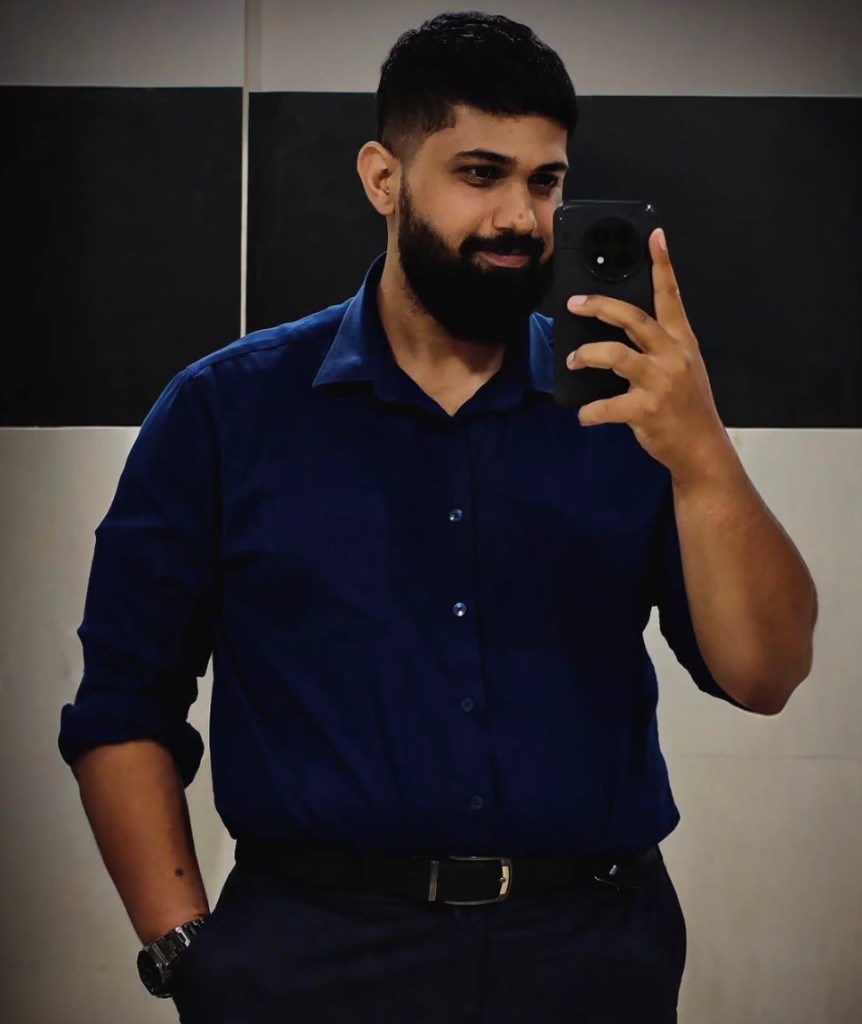
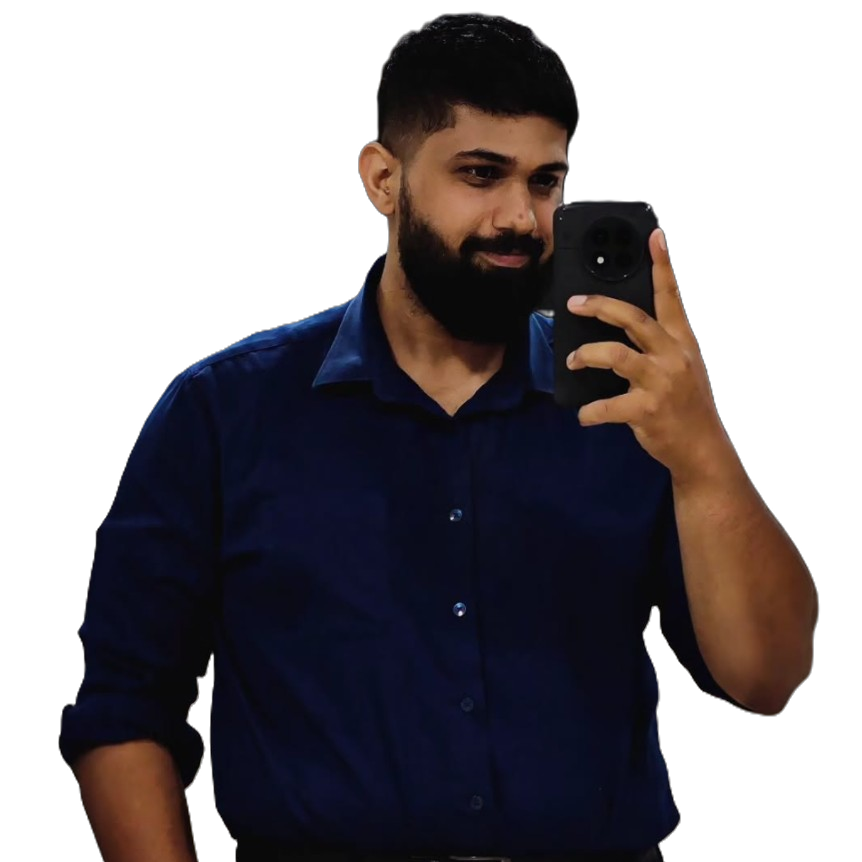
Update profile photos and flank hero decor beside the portrait.
Reposition topology labels, VT ring, and badges along the portrait edges so they stay visible instead of hiding behind the image.

diff --git a/styles.css b/styles.css
@@ -554,24 +554,44 @@ body.is-loaded .scroll-hint {
   overflow: visible;
 }
 
-.hero-visual-inner {
+.hero-portrait-cluster {
   position: relative;
-  width: min(100%, clamp(360px, 44vw, 560px));
-  aspect-ratio: 1;
+  display: flex;
+  align-items: center;
+  justify-content: center;
+  width: min(100%, clamp(360px, 52vw, 620px));
+  min-height: clamp(320px, 42vw, 480px);
+  padding-inline: clamp(52px, 9vw, 96px);
+}
+
+.hero-visual-inner {
   transition: transform 0.5s var(--ease-out);
   will-change: transform;
 }
 
-.hero-visual-inner--bg {
+.hero-topology {
   position: absolute;
-  top: 50%;
-  left: 50%;
-  translate: -50% -50%;
-  margin: 0;
-  width: min(115%, clamp(380px, 48vw, 580px));
-  opacity: 0.72;
+  inset: 0;
+  width: 100%;
+  height: 100%;
   pointer-events: none;
-  z-index: 0;
+  z-index: 1;
+}
+
+.hero-decor {
+  position: absolute;
+  top: 0;
+  bottom: 0;
+  width: clamp(52px, 9vw, 96px);
+  pointer-events: none;
+  z-index: 3;
+}
+
+.hero-decor--left {
+  left: 0;
+  display: flex;
+  align-items: center;
+  justify-content: flex-end;
 }
 
 .hero-portrait {
@@ -579,6 +599,7 @@ body.is-loaded .scroll-hint {
   z-index: 2;
   width: min(100%, clamp(280px, 36vw, 440px));
   margin: 0;
+  flex-shrink: 0;
 }
 
 .hero-portrait-frame {
@@ -598,38 +619,32 @@ body.is-loaded .scroll-hint {
 }
 
 .hero-visual .floating-badge {
-  z-index: 2;
+  z-index: 4;
 }
 
 .hero-visual .floating-badge--1 {
-  top: 4%;
-  right: clamp(-8px, -1vw, 12px);
+  top: 6%;
+  right: clamp(0px, 1vw, 8px);
 }
 
 .hero-visual .floating-badge--2 {
-  bottom: 6%;
-  left: clamp(-8px, -1vw, 12px);
+  bottom: 8%;
+  left: clamp(0px, 1vw, 8px);
 }
 
-.hero-topology {
-  position: absolute;
-  inset: 0;
+.hero-decor--left .hero-signature {
+  position: relative;
   width: 100%;
-  height: 100%;
-}
-
-.hero-signature {
-  position: absolute;
-  inset: 0;
-  display: grid;
-  place-items: center;
-  pointer-events: none;
+  height: clamp(120px, 22vw, 168px);
 }
 
 .hero-signature-ring {
   position: absolute;
-  width: 42%;
-  height: 42%;
+  right: -28%;
+  top: 50%;
+  translate: 0 -50%;
+  width: clamp(88px, 14vw, 120px);
+  height: clamp(88px, 14vw, 120px);
   border-radius: 50%;
   border: 1px solid rgba(94, 234, 212, 0.25);
   animation: ringPulse 4s var(--ease-in-out) infinite;
@@ -654,11 +669,14 @@ body.is-loaded .scroll-hint {
 }
 
 .hero-signature-core {
-  position: relative;
+  position: absolute;
+  right: -6px;
+  top: 50%;
+  translate: 0 -50%;
   z-index: 1;
-  width: 112px;
-  height: 112px;
-  border-radius: 28px;
+  width: clamp(64px, 10vw, 88px);
+  height: clamp(64px, 10vw, 88px);
+  border-radius: 22px;
   display: grid;
   place-content: center;
   text-align: center;
@@ -1173,13 +1191,18 @@ body.is-loaded .scroll-hint {
     max-width: none;
   }
 
+  .hero-portrait-cluster {
+    width: min(100%, clamp(300px, 88vw, 440px));
+    padding-inline: clamp(40px, 10vw, 64px);
+  }
+
   .hero-portrait {
     width: min(100%, clamp(260px, 72vw, 380px));
     margin-inline: auto;
   }
 
-  .hero-visual-inner--bg {
-    width: min(100%, clamp(320px, 78vw, 440px));
+  .hero-decor--left .hero-signature {
+    height: clamp(100px, 28vw, 140px);
   }
 
   .contact-copy {

diff --git a/main.js b/main.js
@@ -18,7 +18,9 @@ const header = document.querySelector(".header");
 const navToggle = document.querySelector(".nav-toggle");
 const navLinks = document.querySelectorAll(".nav-links a");
 const trackedSections = document.querySelectorAll("main section[id]");
-const heroInner = document.querySelector(".hero-visual-inner");
+const heroInner = document.querySelector(".hero-decor--left");
+const portraitCluster = document.querySelector(".hero-portrait-cluster");
+const heroPortrait = document.querySelector(".hero-portrait");
 const preloader = document.getElementById("preloader");
 const preloaderBar = document.getElementById("preloader-bar");
 const preloaderLabel = document.getElementById("preloader-label");
@@ -288,54 +290,73 @@ function initBackgroundMesh() {
 }
 
 function initTopology() {
-  if (!topologyCanvas || !motionEnabled) return;
+  if (!topologyCanvas || !motionEnabled || !portraitCluster || !heroPortrait) return;
 
   const ctx = topologyCanvas.getContext("2d");
-  const parent = topologyCanvas.parentElement;
-  let size = 0;
   let time = 0;
 
+  const leftNodes = TOPOLOGY_NODES.filter((_, index) => index % 2 === 0);
+  const rightNodes = TOPOLOGY_NODES.filter((_, index) => index % 2 === 1);
+
   function resize() {
-    size = Math.min(parent.clientWidth, parent.clientHeight, 400);
-    topologyCanvas.width = size;
-    topologyCanvas.height = size;
+    const width = portraitCluster.clientWidth;
+    const height = portraitCluster.clientHeight;
+    topologyCanvas.width = width;
+    topologyCanvas.height = height;
   }
 
-  function draw() {
-    time += 0.01;
-    ctx.clearRect(0, 0, size, size);
+  function getSidePoints(side) {
+    const clusterRect = portraitCluster.getBoundingClientRect();
+    const portraitRect = heroPortrait.getBoundingClientRect();
+    const nodes = side === "left" ? leftNodes : rightNodes;
+    const insetY = portraitRect.height * 0.12;
+    const usableHeight = portraitRect.height - insetY * 2;
 
-    const cx = size / 2 + meshPointerX * 8;
-    const cy = size / 2 + meshPointerY * 6;
-    const orbit = size * 0.36;
-    const points = TOPOLOGY_NODES.map((node, i) => {
-      const a = node.angle + time * (0.28 + i * 0.035);
+    return nodes.map((node, index) => {
+      const t = (index + 1) / (nodes.length + 1);
+      const drift = Math.sin(time * 1.4 + index * 0.9) * 8;
+      const y =
+        portraitRect.top -
+        clusterRect.top +
+        insetY +
+        usableHeight * t +
+        drift;
+      const x =
+        side === "left"
+          ? portraitRect.left - clusterRect.left - 16 + Math.cos(time + index) * 5
+          : portraitRect.right - clusterRect.left + 16 + Math.cos(time + index + 1) * 5;
+
       return {
-        x: cx + Math.cos(a) * orbit,
-        y: cy + Math.sin(a) * orbit,
+        x,
+        y,
         label: node.label,
         color: node.color
       };
     });
+  }
+
+  function draw() {
+    time += 0.01;
+    const width = topologyCanvas.width;
+    const height = topologyCanvas.height;
+    ctx.clearRect(0, 0, width, height);
+
+    const leftPoints = getSidePoints("left");
+    const rightPoints = getSidePoints("right");
+    const points = [...leftPoints, ...rightPoints];
 
     ctx.lineWidth = 1;
     points.forEach((point, i) => {
       for (let j = i + 1; j < points.length; j += 1) {
         const other = points[j];
         const dist = Math.hypot(point.x - other.x, point.y - other.y);
-        const alpha = Math.max(0, 0.2 - dist / (size * 1.4));
+        const alpha = Math.max(0, 0.22 - dist / (width * 0.95));
         ctx.strokeStyle = `rgba(94, 234, 212, ${alpha})`;
         ctx.beginPath();
         ctx.moveTo(point.x, point.y);
         ctx.lineTo(other.x, other.y);
         ctx.stroke();
       }
-
-      ctx.strokeStyle = "rgba(94, 234, 212, 0.16)";
-      ctx.beginPath();
-      ctx.moveTo(cx, cy);
-      ctx.lineTo(point.x, point.y);
-      ctx.stroke();
     });
 
     points.forEach((point) => {
@@ -344,10 +365,11 @@ function initTopology() {
       ctx.arc(point.x, point.y, 5, 0, Math.PI * 2);
       ctx.fill();
 
-      ctx.fillStyle = "rgba(244, 244, 248, 0.62)";
+      ctx.fillStyle = "rgba(244, 244, 248, 0.72)";
       ctx.font = "600 10px JetBrains Mono, monospace";
-      ctx.textAlign = "center";
-      ctx.fillText(point.label, point.x, point.y - 12);
+      ctx.textAlign = point.x < width / 2 ? "right" : "left";
+      const labelX = point.x < width / 2 ? point.x - 10 : point.x + 10;
+      ctx.fillText(point.label, labelX, point.y + 4);
     });
 
     requestAnimationFrame(draw);

diff --git a/index.html b/index.html
@@ -99,30 +99,32 @@
       </div>
 
       <div class="hero-visual" id="hero-visual">
-        <div class="hero-visual-inner hero-visual-inner--bg" aria-hidden="true">
-          <canvas id="hero-topology" class="hero-topology"></canvas>
-          <div class="hero-signature">
-            <div class="hero-signature-ring"></div>
-            <div class="hero-signature-core">
-              <span>VT</span>
-              <small>Backend · Agentic</small>
+        <div class="hero-portrait-cluster">
+          <canvas id="hero-topology" class="hero-topology" aria-hidden="true"></canvas>
+          <div class="hero-decor hero-decor--left hero-visual-inner" aria-hidden="true">
+            <div class="hero-signature">
+              <div class="hero-signature-ring"></div>
+              <div class="hero-signature-core">
+                <span>VT</span>
+                <small>Backend · Agentic</small>
+              </div>
             </div>
           </div>
+          <figure class="hero-portrait parallax-tilt" data-tilt-max="3">
+            <div class="hero-portrait-frame parallax-tilt-inner">
+              <img
+                src="/assets/photos/hero.png"
+                alt="Vijay Prakash Tiwari"
+                width="912"
+                height="912"
+                decoding="async"
+                fetchpriority="high"
+              />
+            </div>
+          </figure>
+          <div class="floating-badge floating-badge--1">LangGraph · MCP · RAG</div>
+          <div class="floating-badge floating-badge--2">Meridian · local-first</div>
         </div>
-        <figure class="hero-portrait parallax-tilt" data-tilt-max="3">
-          <div class="hero-portrait-frame parallax-tilt-inner">
-            <img
-              src="/assets/photos/hero.png"
-              alt="Vijay Prakash Tiwari"
-              width="912"
-              height="1024"
-              decoding="async"
-              fetchpriority="high"
-            />
-          </div>
-        </figure>
-        <div class="floating-badge floating-badge--1">LangGraph · MCP · RAG</div>
-        <div class="floating-badge floating-badge--2">Meridian · local-first</div>
       </div>
 
       <a class="scroll-hint" href="#projects" aria-label="Explore work">
@@ -220,7 +222,7 @@
                 src="/assets/photos/about.png"
                 alt="Vijay Prakash Tiwari"
                 width="862"
-                height="1024"
+                height="862"
                 loading="lazy"
                 decoding="async"
               />
@@ -328,8 +330,8 @@
             <img
               src="/assets/photos/contact.png"
               alt="Vijay Prakash Tiwari at work"
-              width="1024"
-              height="1024"
+              width="650"
+              height="650"
               loading="lazy"
               decoding="async"
             />